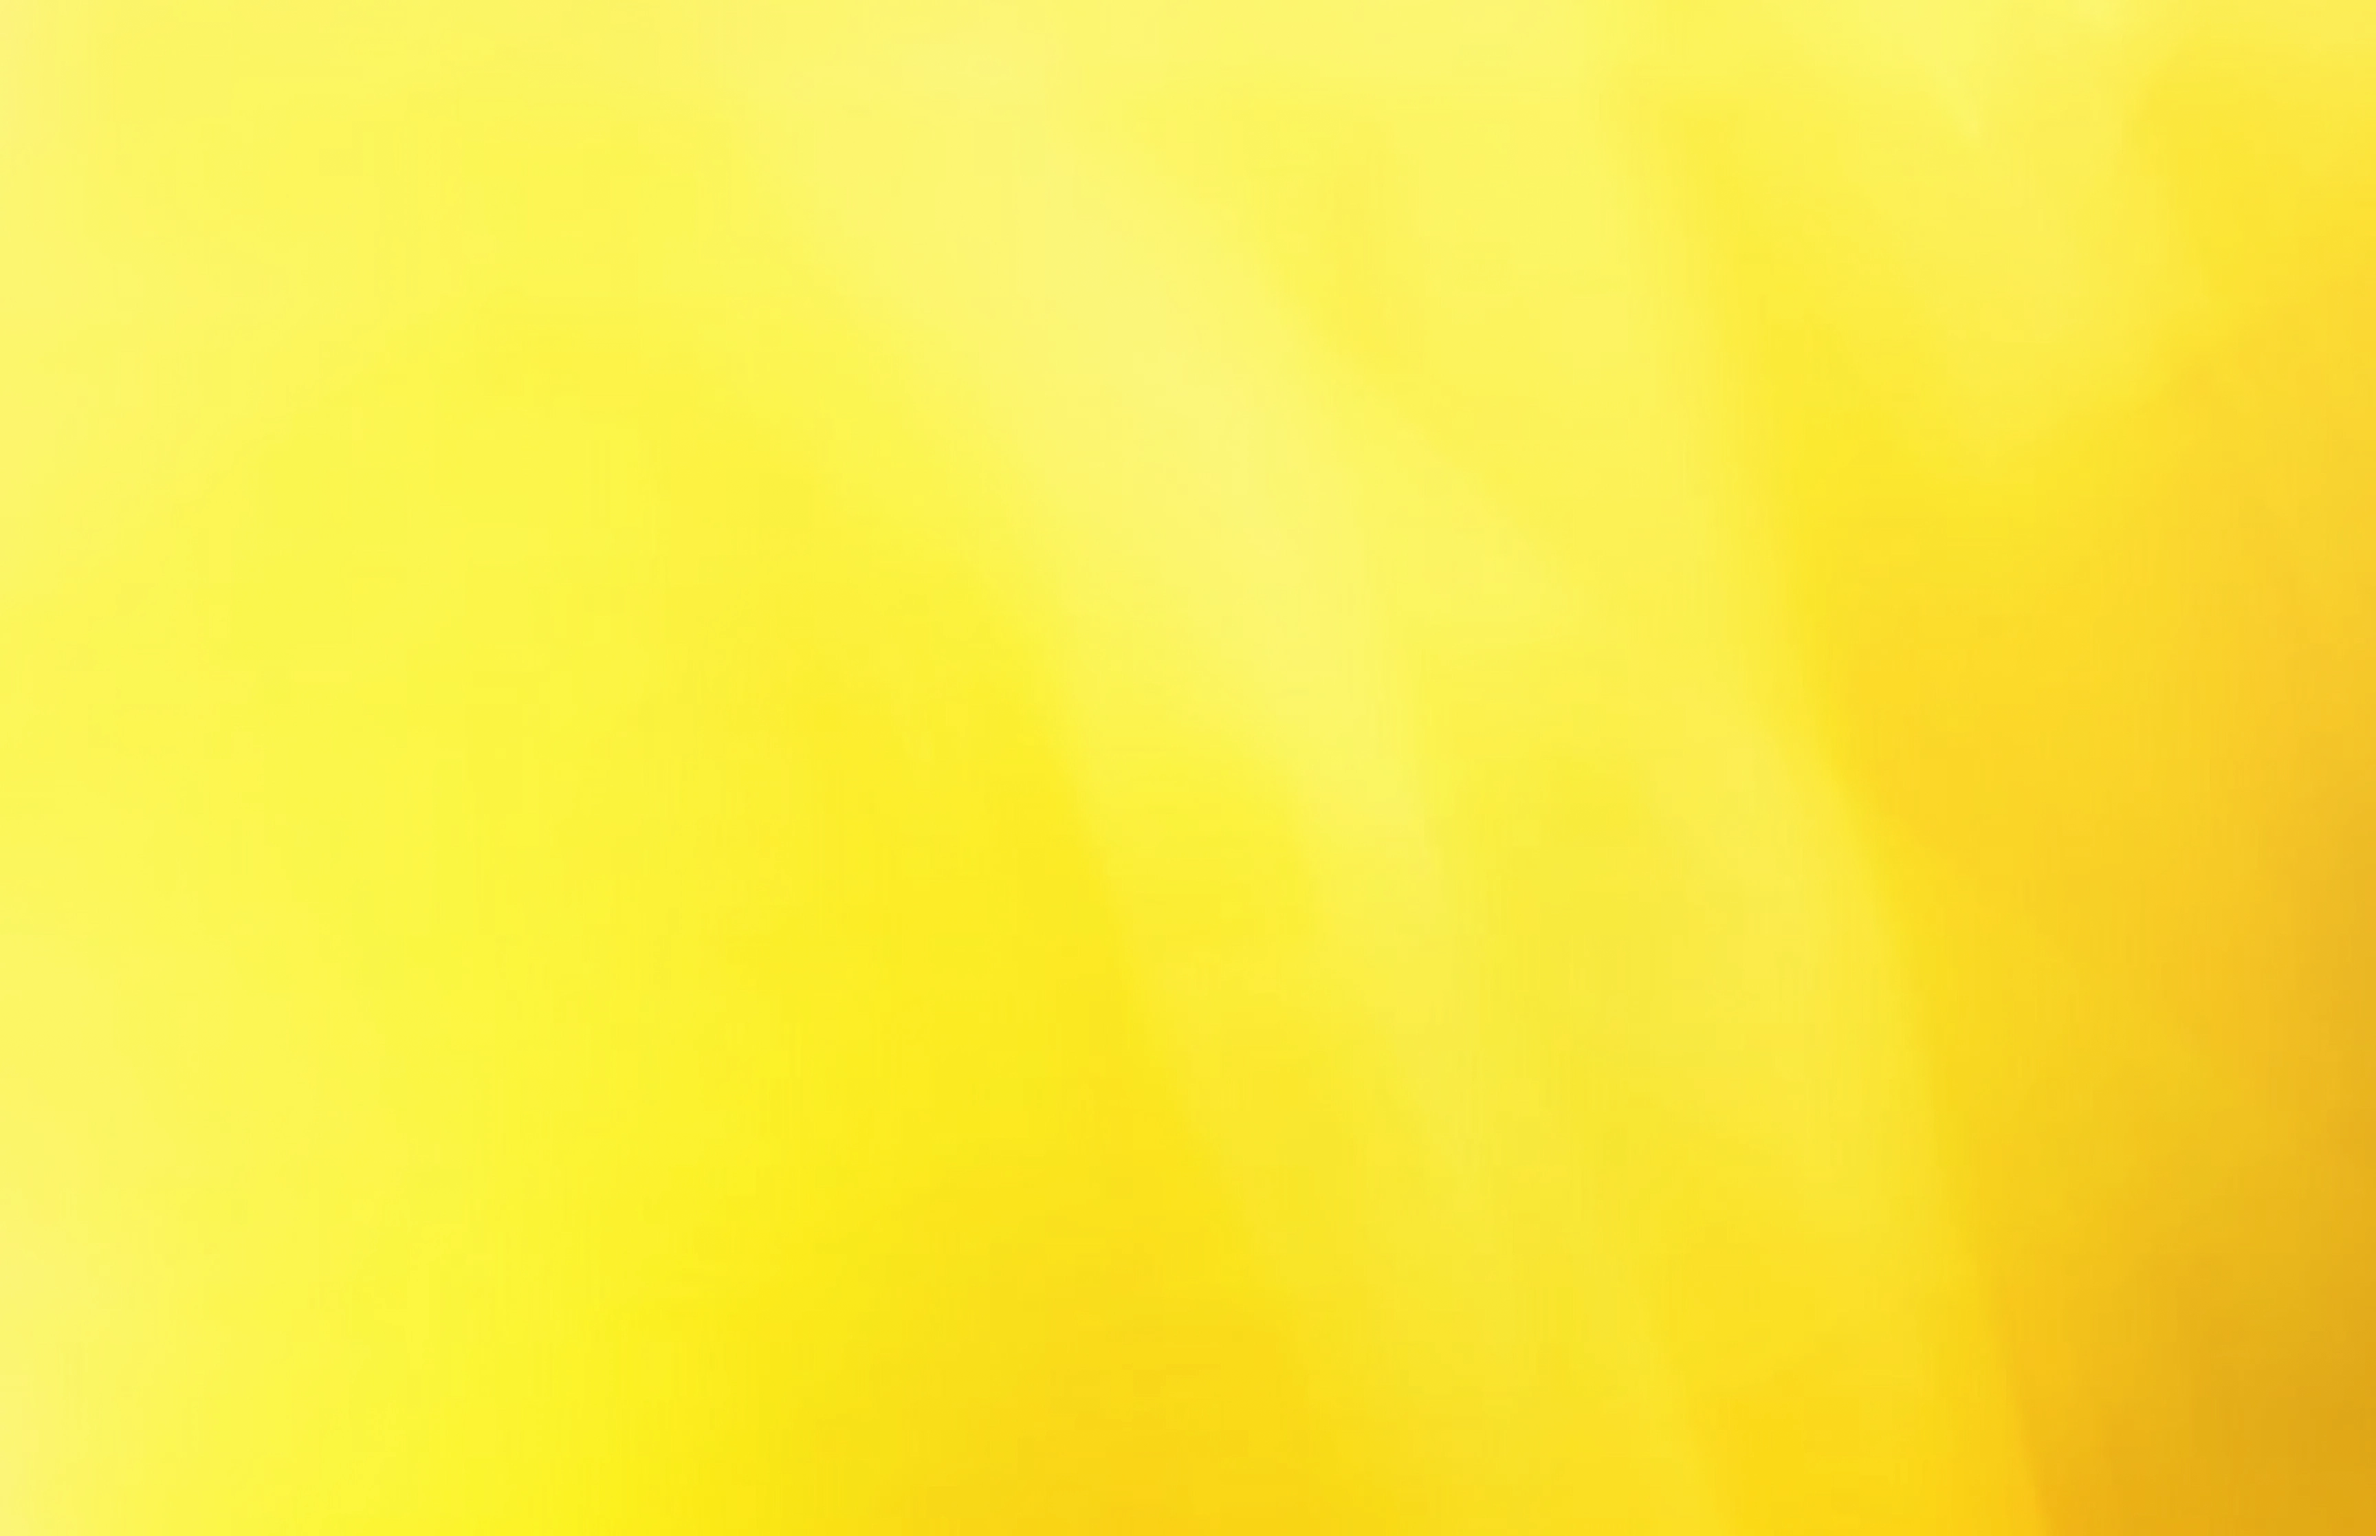
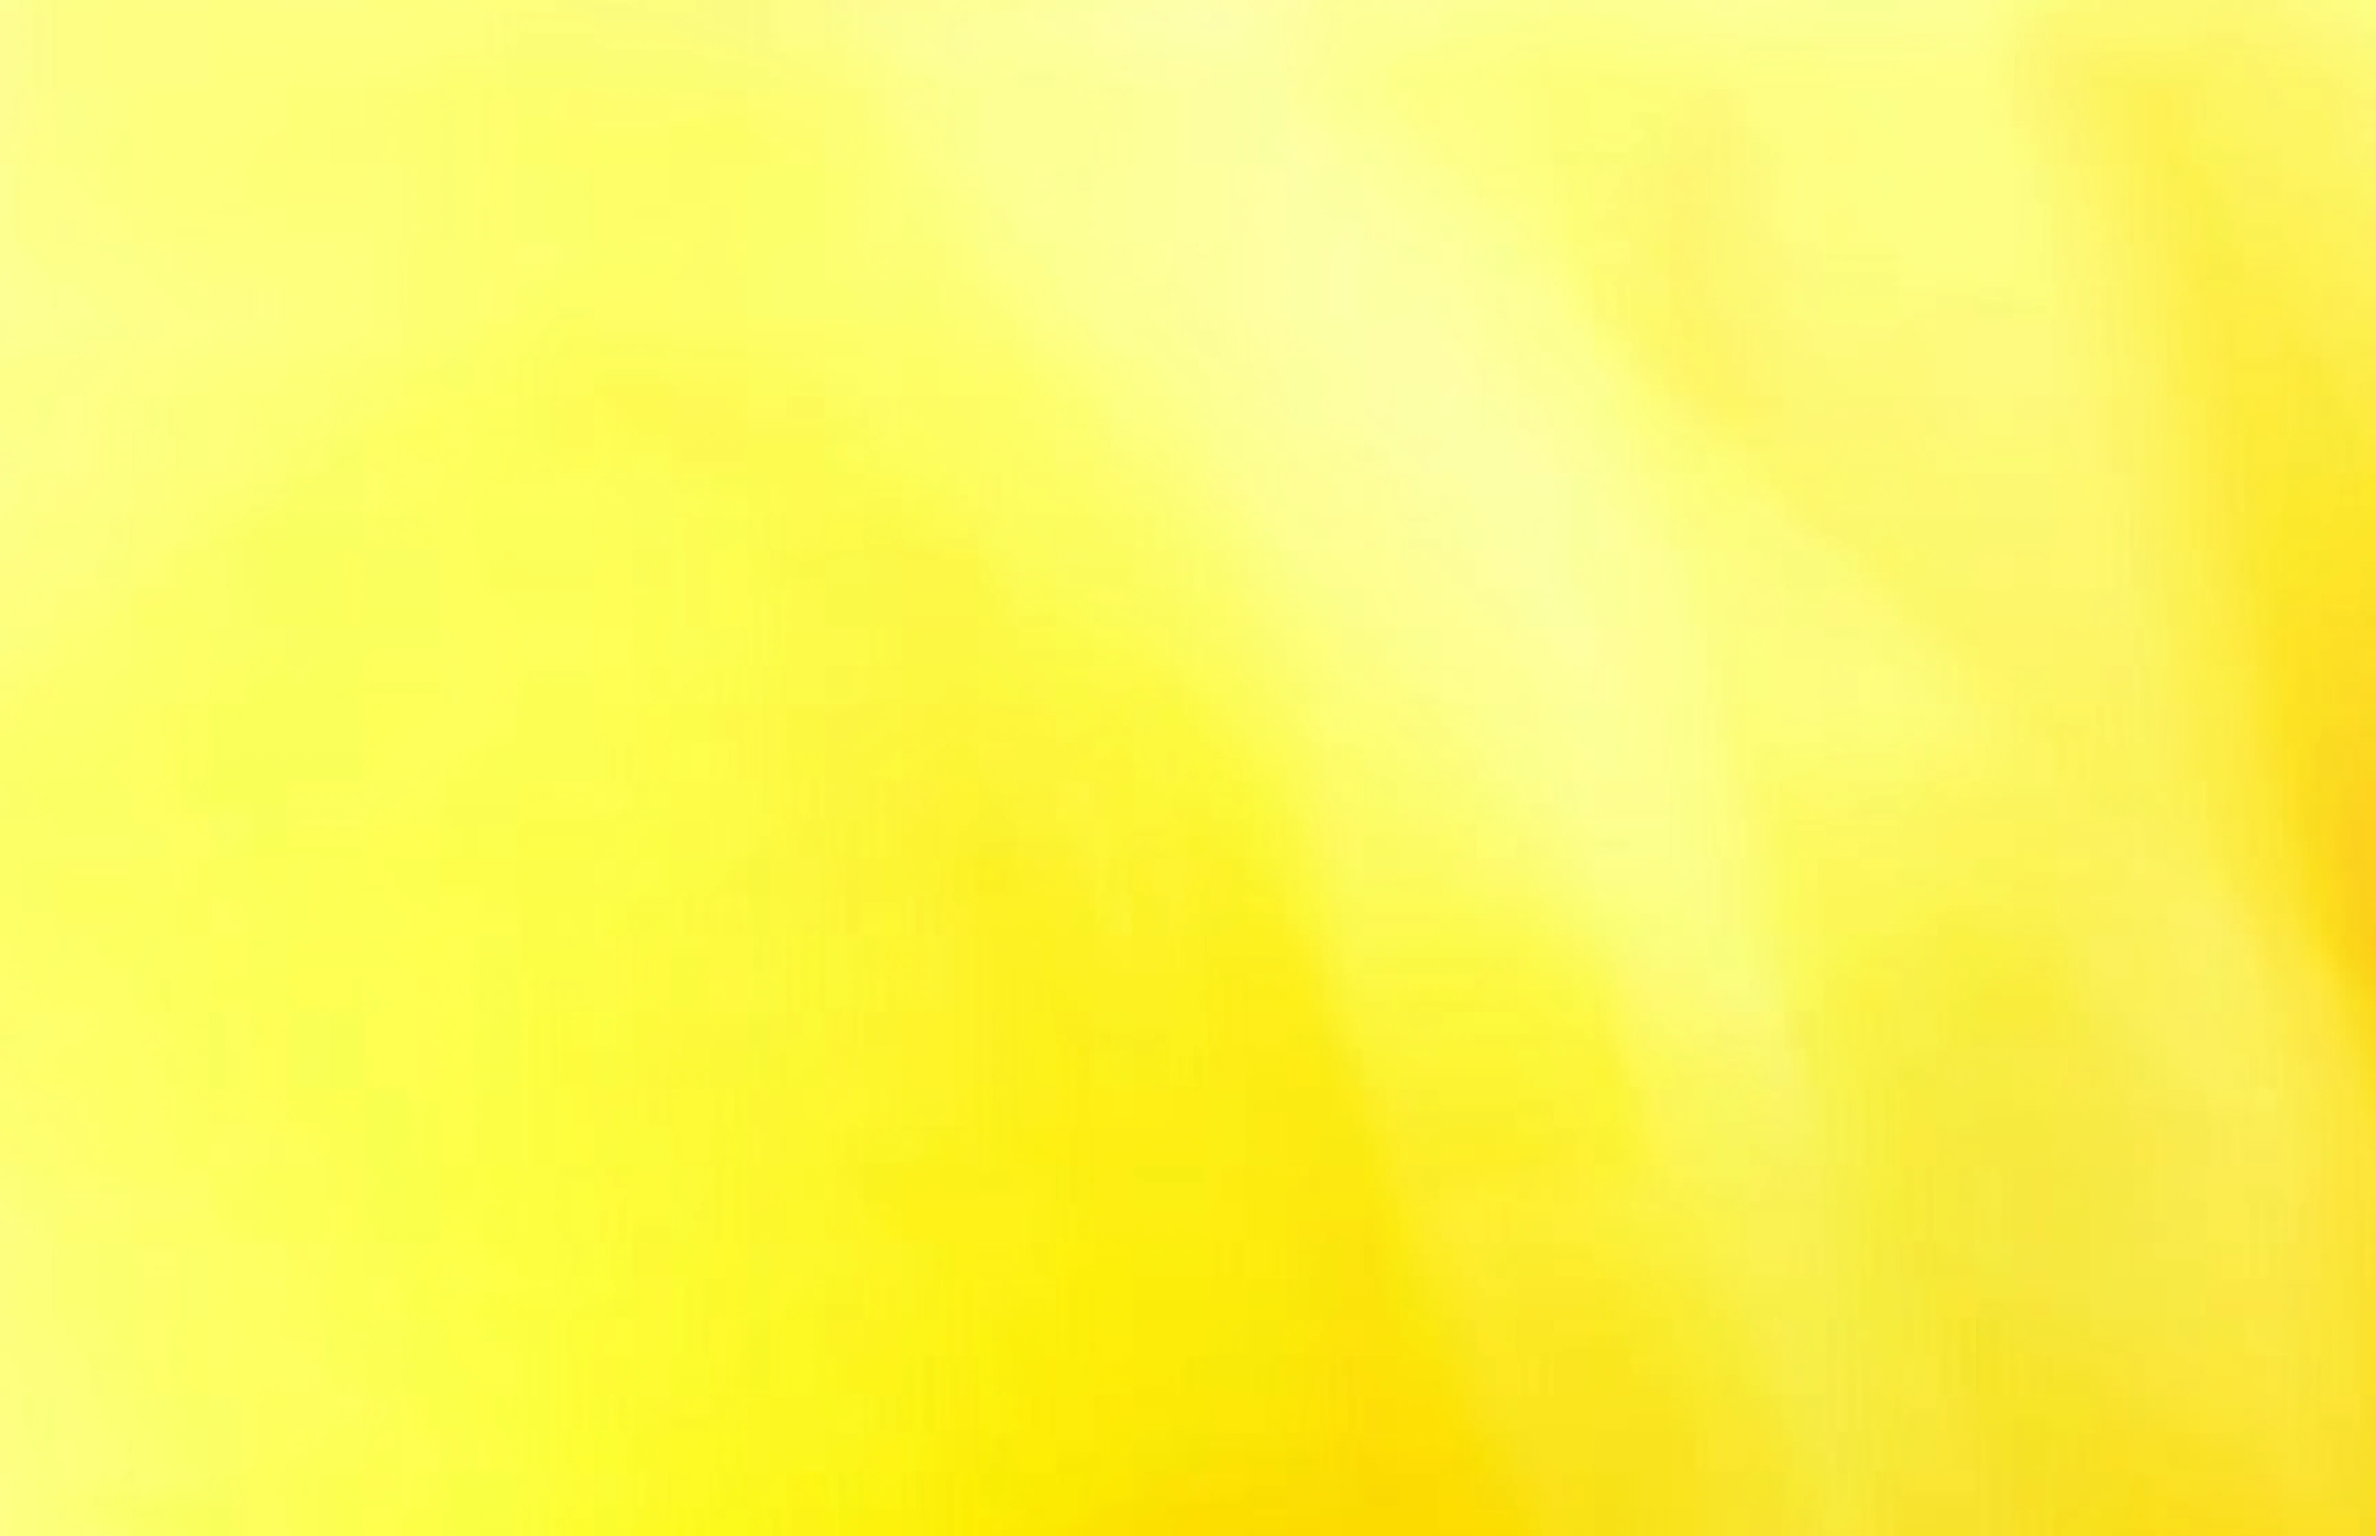
Replace light-mode Wallpaper04 art and retune its blend (v0.8.7.4)
New source image (previously YELLOW_GRA3) at the same 3456x2234 resolution.
Retuned the light-mode multiply/softLight stack for the new art: multiply
1.0 (was 0.8), softLight 0.8 (was 0.4).

diff --git a/Sources/FontGrid/RootView.swift b/Sources/FontGrid/RootView.swift
@@ -686,8 +686,8 @@ struct WallpaperOverlay: View {
     // Wallpaper04 mixes a multiply base with a soft overlay highlight.
     private static let lightLayerOverrides: [String: [BlendLayer]] = [
         "Wallpaper04": [
-            BlendLayer(mode: .multiply, opacity: 0.8),
-            BlendLayer(mode: .softLight, opacity: 0.4)
+            BlendLayer(mode: .multiply, opacity: 1.0),
+            BlendLayer(mode: .softLight, opacity: 0.8)
         ]
     ]
 

diff --git a/Sources/FontGrid/Theme.swift b/Sources/FontGrid/Theme.swift
@@ -3,7 +3,7 @@ import AppKit
 
 enum Theme {
     // App
-    static let appVersion = "0.8.7.3"
+    static let appVersion = "0.8.7.4"
 
     // Panels
     static let panelDefaultWidth: CGFloat = 240
